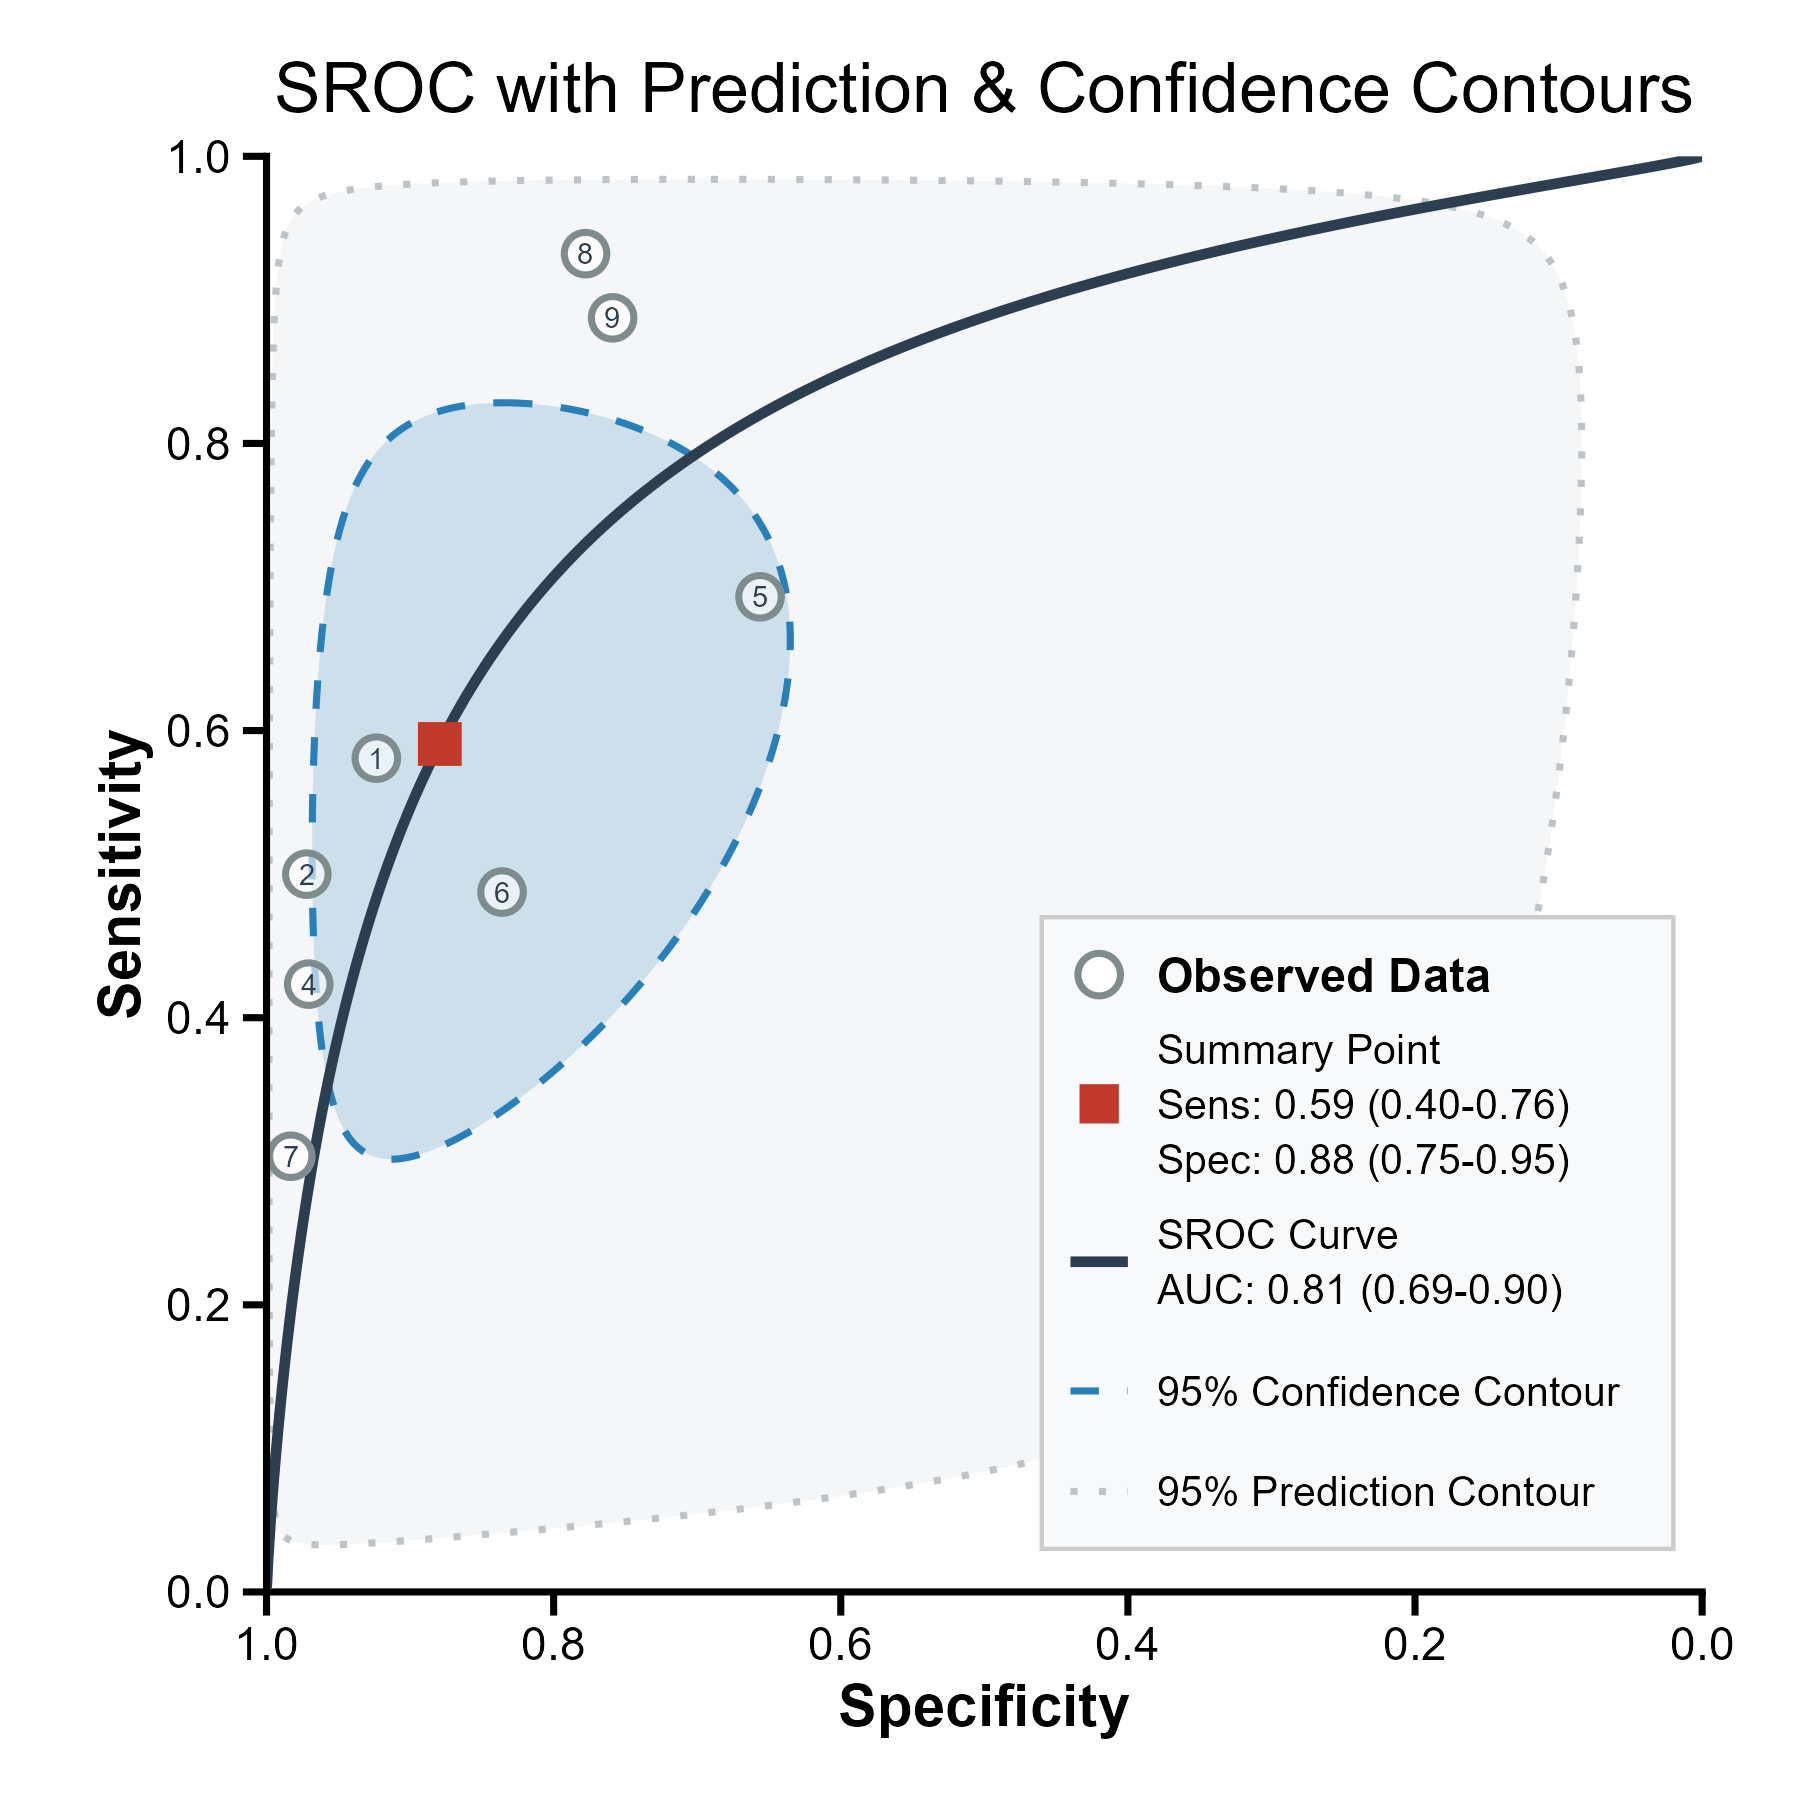
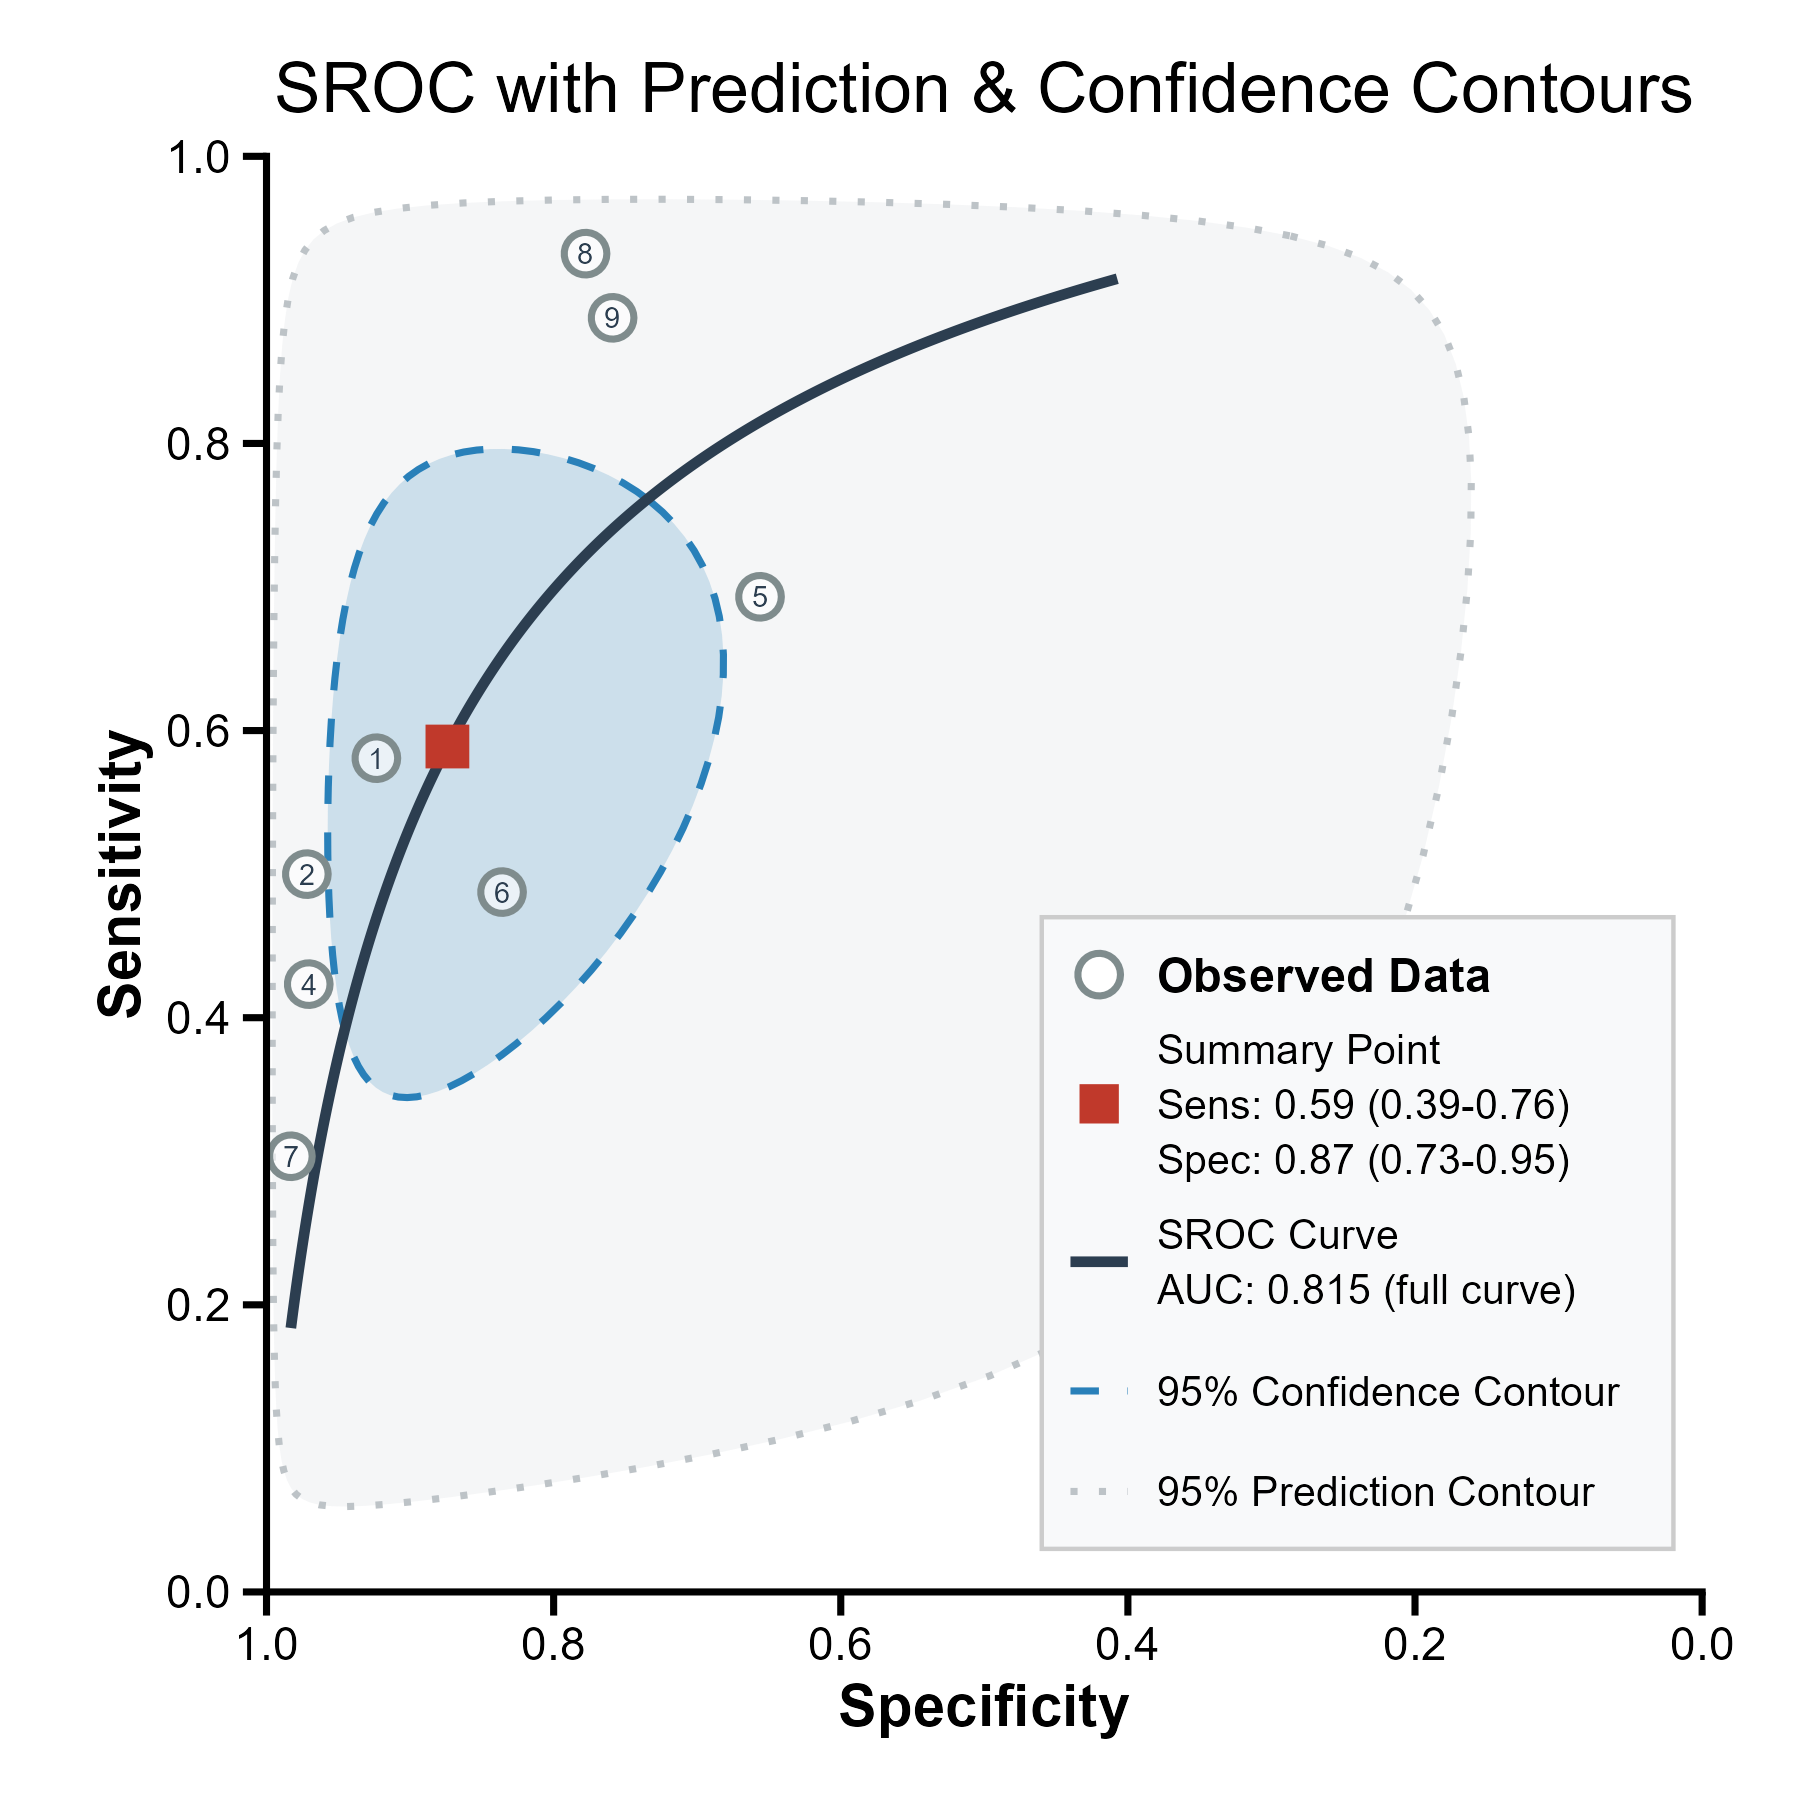
Use citable Reitsma and Rutter-Gatsonis SROC by default

diff --git a/README.md b/README.md
@@ -1,8 +1,8 @@
 # dtaMetaBridge
 
 `dtaMetaBridge` 用于衔接配对的 `meta::metaprop()` 对象与标准诊断试验准确性
-meta 分析，提供双森林图、双变量二项 GLMM、原始 QMD 的 SROC 函数和检验后概率。
-0.3.0 默认使用 `HFphf_meta analysis.qmd` 中的 `fit_metandi()` / `plot_metandi()`。
+meta 分析，提供双森林图、Reitsma 双变量随机效应模型、Rutter–Gatsonis HSROC 曲线和检验后概率。
+0.4.0 默认调用 `mada::reitsma(method = "reml")` 与 `mada::sroc(type = "ruttergatsonis")`。
 
 ## 使用教程
 
@@ -45,13 +45,12 @@ meta_spec <- metaprop(TN, TN + FP, studlab = study, data = dta,
 plot_sensspec_forest_meta(meta_sens, meta_spec,
                            output_file = "forest.png")
 
-# 3. 默认采用原始 QMD 的拟合和绘图函数。
+# 3. Reitsma 双变量模型 + Rutter–Gatsonis HSROC（默认）。
 fit <- fit_bivariate_meta(meta_sens, meta_spec)
 plot_sroc(fit)
 
-# 也可以直接使用 QMD 中的原函数名：
-# fit <- fit_metandi(dta)
-# plot_metandi(fit)
+# 显式指定方法也可以：
+# fit <- fit_bivariate_meta(meta_sens, meta_spec, sroc_type = "ruttergatsonis")
 
 # 4. 按预检概率计算阳性和阴性后的患病概率及 95% 不确定性区间。
 posttest_probability(fit, prevalence = c(0.10, 0.30, 0.50))
@@ -60,7 +59,7 @@ posttest_probability(fit, prevalence = c(0.10, 0.30, 0.50))
 ### 示例图
 
 下图由上面的示例数据和函数生成。左图的森林图汇总值来自两个独立的
-`meta::metaprop()` 随机效应模型；SROC 的方块来自联合二项 GLMM，故两组汇总
+`meta::metaprop()` 随机效应模型；SROC 的方块来自联合 Reitsma 模型，故两组汇总
 灵敏度/特异度数值可能略有差异，这是模型定义不同所致，并非计算不一致。
 
 下表左侧为生成代码，右侧为对应输出图。代码使用上文的 `dta`、`meta_sens`、
@@ -110,10 +109,10 @@ plot_sensspec_forest_meta(
 ### 结果如何解释
 
 - 森林图菱形：分别汇总灵敏度与特异度，适用于展示每个结局的异质性。
-- SROC：默认 `sroc_type = "qmd"`，使用所提供 QMD 的原始函数，保留研究编号、
-  图例、汇总值与 AUC 模拟区间。`seed`、`n_mc` 和 `n_grid` 控制随机种子、模拟次数及网格。
-  `midas`、`ruttergatsonis` 和 `naive` 仍可显式选择。
-  `method`、`correction` 和 `correction_control` 仅用于两个 `mada` 后端。
+- SROC：默认 `sroc_type = "ruttergatsonis"`。以 REML 拟合 logit 灵敏度与 logit 假阳性率的双变量正态随机效应模型，按 HSROC 参数化生成曲线。默认连续性校正为 0.5，仅对含零单元格的研究实施。
+- 曲线默认只显示观察到的 FPR 范围；完整 AUC 对同一曲线在 FPR 0–1 上积分，包含范围外的模型外推。`pauc` 是观察范围内的未标准化面积。
+- AUC 区间暂不估计（`NA`）；图中置信轮廓针对联合汇总点，不是整条 SROC 的置信带。
+- `qmd`、`midas`、`naive` 仅为显式可选方法；不是本文默认方法。
 - `fit$metrics$auc`：跨研究的 SROC 区分能力汇总，不能替代单项研究中连续评分的 ROC AUC。
 - post-test probability：区间反映汇总平均准确性的抽样不确定性，不是未来任一新场景的预测区间。
 
@@ -123,47 +122,32 @@ plot_sensspec_forest_meta(
 | --- | --- |
 | `dta_from_meta()` | 从匹配的灵敏度和特异度 `metaprop` 对象还原四格表。 |
 | `plot_sensspec_forest_meta()` | 保留 `meta` 随机效应汇总菱形，绘制双森林图。 |
-| `fit_bivariate_meta()` / `fit_bivariate_dta()` | 从 `meta` 对象或四格表拟合双变量模型；默认原始 QMD 算法。 |
-| `fit_metandi()` / `plot_metandi()` | 直接使用 QMD 中的原函数及其图例参数。 |
+| `fit_bivariate_meta()` / `fit_bivariate_dta()` | 从 `meta` 对象或四格表拟合双变量模型；默认 Reitsma / Rutter–Gatsonis 方法。 |
+| `fit_metandi()` / `plot_metandi()` | 保留原 QMD 函数供历史结果复现；不作为推荐默认算法。 |
 | `plot_sroc()` | 绘制 HSROC 曲线、置信轮廓、预测轮廓和研究点。 |
 | `posttest_probability()` | 计算不同预检概率下的 PPV、NPV 及模拟法 95% 区间。 |
 
-## 使用范围
+## 方法与论文引用
 
-### 原始 QMD 方法（默认，0.3.0）
+推荐方法为 Reitsma 双变量模型及 Rutter–Gatsonis HSROC 参数化。实际估计使用
+`mada` 的 logit 正态近似与 REML；不是直接拟合原始 Rutter–Gatsonis 论文的 Bayesian 模型。
+Harbord 的参数映射适用于此处无协变量模型；这不代表不同似然与估计软件会得到相同数值。
+少研究、稀疏数据或方差边界时应检查模型稳定性。
 
-原始算法保持不变：在 logit 特异度上，曲线斜率为
-`sign(rho_re) * sigma_se / sigma_sp`。这不是 `mada` 的 naive 条件均值斜率，
-也不是本包可选 Midas 后端的固定负斜率。相关性为正时，原函数仍可能画出反向曲线；
-移植时不会自动更改其符号。
-AUC 点估计为固定效应模拟所得面积的均值，区间未包含研究间方差参数的不确定性。
-原函数执行 `set.seed(seed)`，会改变全局随机数状态。
+### 可用于论文的方法描述
 
-```r
-fit <- fit_metandi(dta, seed = 2026, n_mc = 3000, n_grid = 1000)
-plot_metandi(fit, show_conf = TRUE, show_pred = TRUE, show_legend = TRUE)
-# 原函数绘图样式也支持直接保存：
-plot_sroc(fit, output_file = "sroc-qmd.png", width = 6, height = 6)
-```
+采用 Reitsma 双变量随机效应模型联合汇总灵敏度与特异度，使用 R 包 mada 以限制性最大似然法估计。
+根据无协变量双变量模型与 HSROC 的参数对应关系，以 Rutter–Gatsonis 参数化绘制 SROC 曲线。
+含零单元格的研究使用 0.5 连续性校正；报告联合汇总点的 95% 置信区域和近似 95% 预测区域。
+AUC 通过对拟合 SROC 曲线在假阳性率 0–1 范围内数值积分计算。
 
-### Midas 可选方法与复现边界（`sroc_type = "midas"`）
+### 参考文献
 
-依据本机 `midas.ado` 2.00（2008-12-21）的 SUMMARY ROC CURVE 段，令
-`mu_se`、`mu_sp` 为两项 logit 均值，`v_se`、`v_sp` 为对应研究间方差：
+1. Reitsma JB, et al. Bivariate analysis of sensitivity and specificity produces informative summary measures in diagnostic reviews. *J Clin Epidemiol*. 2005;58:982–990. [doi:10.1016/j.jclinepi.2005.02.022](https://doi.org/10.1016/j.jclinepi.2005.02.022)
+2. Rutter CM, Gatsonis CA. A hierarchical regression approach to meta-analysis of diagnostic test accuracy evaluations. *Stat Med*. 2001;20:2865–2884. [doi:10.1002/sim.942](https://doi.org/10.1002/sim.942)
+3. Harbord RM, et al. A unification of models for meta-analysis of diagnostic accuracy studies. *Biostatistics*. 2007;8:239–251. [doi:10.1093/biostatistics/kxl004](https://doi.org/10.1093/biostatistics/kxl004)
 
-```r
-b <- (max(0.001, v_sp) / max(0.001, v_se))^0.25
-a <- mu_se * b + mu_sp / b
-sensitivity <- plogis((a - qlogis(specificity) / b) / b)
-```
+软件实现见 [mada 文档](https://search.r-project.org/CRAN/refmans/mada/help/reitsma-class.html)。
+R 中可运行 `citation("dtaMetaBridge")` 查看方法文献，`citation("mada")` 查看软件引用。
 
-该曲线经过联合汇总点，以 500 个等距点在特异度 0–1 上作梯形积分得到 AUC。
-这里的 Midas 公式与 `mada` 的 `naive` 条件均值曲线不同；此前将两者等同的说明已更正。
-R 端使用 `lme4::glmer(nAGQ = 1)` 的 Laplace 估计；Midas 的自适应积分配置可能得到不同估计。
-本次验证覆盖公式、端点、单调性、汇总点及数值积分，尚未完成 Stata 实际运行的数值对照，
-因此不能宣称结果逐位一致。边界或不收敛信息见 `fit$diagnostics`。
-旧版 Midas 使用绘图点数构造 AUC 区间，本包不把它作为统计不确定性区间，AUC 上下限保留 `NA`。
-`pauc` 为观察到的特异度范围内的未标准化部分面积。
-
-本包用于可重复的诊断试验准确性 meta 分析。在合并前仍需审查研究定义、阈值及临床
-适用性；本包不能替代研究方案或偏倚风险评价。
+本包不能替代研究方案、原始四格表核验或偏倚风险评价。
